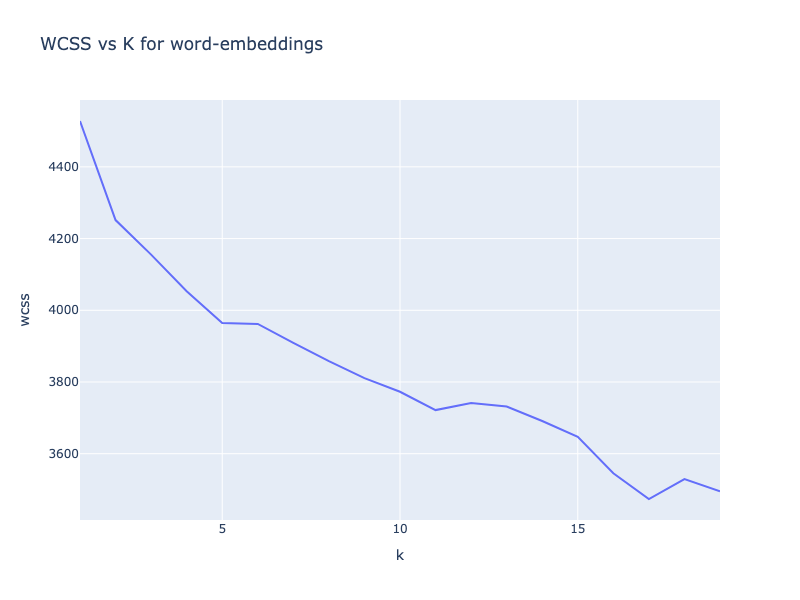
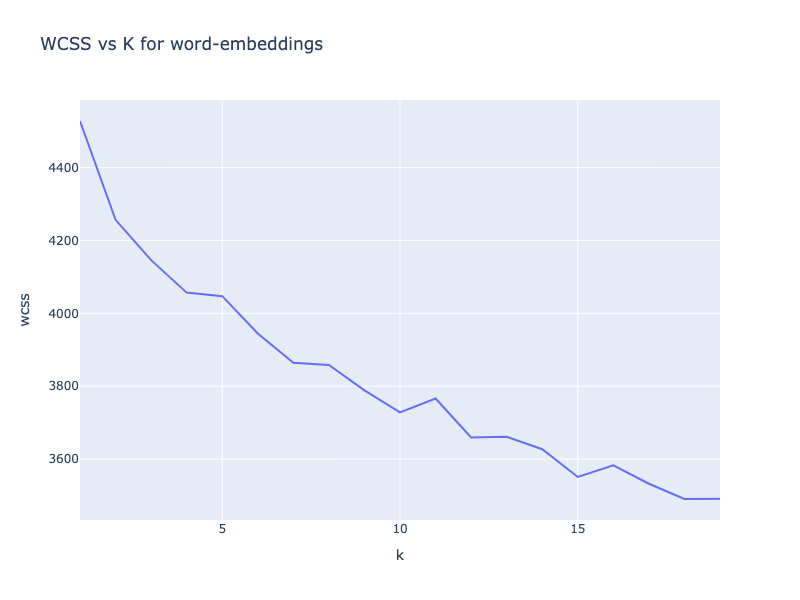
[+]clustering analysis

diff --git a/assignments/2/k_means_tasks.py b/assignments/2/k_means_tasks.py
@@ -5,55 +5,98 @@ from utils import setup_base_dir
 import plotly.express as px
 import json
 import time
+from sklearn.metrics import silhouette_score
 
 base_dir = setup_base_dir(levels=2)
 
 from models.k_means.k_means import KMeans
 
+
 def analyse_2d_clustering_data():
-    data = pd.read_csv(os.path.join(base_dir, "data", "external", "2d-clustering-data.csv"))
+    data = pd.read_csv(
+        os.path.join(base_dir, "data", "external", "2d-clustering-data.csv")
+    )
     X = data[["x", "y"]].to_numpy()
     # view original data with color
-    fig = px.scatter(data, x="x", y="y", title="2D Clustering Data - Original", width=800, height=600, color="color")
+    fig = px.scatter(
+        data,
+        x="x",
+        y="y",
+        title="2D Clustering Data - Original",
+        width=800,
+        height=600,
+        color="color",
+    )
     fig.show()
     # run k_means
     kmeans = KMeans(k=3)
     kmeans.fit(X)
     data["cluster"] = kmeans.predict(X)
     # view clustered data
-    fig = px.scatter(data, x="x", y="y", title="2D Clustering Data - Clustered", width=800, height=600, color="cluster")
+    fig = px.scatter(
+        data,
+        x="x",
+        y="y",
+        title="2D Clustering Data - Clustered",
+        width=800,
+        height=600,
+        color="cluster",
+    )
     fig.show()
-    
+
+
 def wcss_vs_k(reduced=False):
-    data = pd.read_csv(os.path.join(base_dir, "data", "processed", "word-embeddings.csv"), index_col=0)
+    data = pd.read_csv(
+        os.path.join(base_dir, "data", "processed", "word-embeddings.csv"), index_col=0
+    )
     if reduced:
-        data = pd.read_csv(os.path.join(base_dir, "data", "processed", "word-embeddings-reduced.csv"), index_col=0)
-    data = data.drop(columns=['words'])
+        data = pd.read_csv(
+            os.path.join(base_dir, "data", "processed", "word-embeddings-reduced.csv"),
+            index_col=0,
+        )
+    data = data.drop(columns=["words"])
     data = data.to_numpy()
-    
+
     results = []
     for k in range(1, 20):
         kmeans = KMeans(k=k)
         kmeans.fit(data)
         results.append({"k": k, "wcss": kmeans.wcss})
-    
+
     # plot the results
     df = pd.DataFrame(results)
-    fig = px.line(df, x="k", y="wcss", title=f"WCSS vs K for word-embeddings{' reduced' if reduced else ''}", width=800, height=600)
+    fig = px.line(
+        df,
+        x="k",
+        y="wcss",
+        title=f"WCSS vs K for word-embeddings{' reduced' if reduced else ''}",
+        width=800,
+        height=600,
+    )
     fig.show()
-    
+
     with open(f"wcss_vs_k{'_reduced' if reduced else ''}.json", "w") as f:
         json.dump(results, f)
 
+
 def sample_clustering(k, reduced=False):
-    data = pd.read_csv(os.path.join(base_dir, "data", "processed", "word-embeddings.csv"), index_col=0)
+    data = pd.read_csv(
+        os.path.join(base_dir, "data", "processed", "word-embeddings.csv"), index_col=0
+    )
     if reduced:
-        data = pd.read_csv(os.path.join(base_dir, "data", "processed", "word-embeddings-reduced.csv"), index_col=0)
-    words = data['words']
-    data = data.drop(columns=['words'])
+        data = pd.read_csv(
+            os.path.join(base_dir, "data", "processed", "word-embeddings-reduced.csv"),
+            index_col=0,
+        )
+    words = data["words"]
+    data = data.drop(columns=["words"])
     data = data.to_numpy()
-    
-    print("KMeans clustering with k =", k, f"on word-embeddings{'-reduced' if reduced else ''} data")
+
+    print(
+        "KMeans clustering with k =",
+        k,
+        f"on word-embeddings{'-reduced' if reduced else ''} data",
+    )
     kmeans = KMeans(k=k)
     kmeans.fit(data)
     cluster_preds = kmeans.predict(data)
@@ -61,31 +104,90 @@ def sample_clustering(k, reduced=False):
     print("\tPoints in each cluster:")
     for i in range(k):
         print("\t\tCluster", i, ":", np.sum(cluster_preds == i))
-    
+
     return words, cluster_preds
 
-# def sematic_cluster_analysis(words, cluster_preds):
-#     k = np.unique(cluster_preds)
+
+def cluster_analysis(k, reduced=False):
+    data = pd.read_csv(
+        os.path.join(base_dir, "data", "processed", "word-embeddings.csv"), index_col=0
+    )
+    if reduced:
+        data = pd.read_csv(
+            os.path.join(base_dir, "data", "processed", "word-embeddings-reduced.csv"),
+            index_col=0,
+        )
+    words = data["words"]
+    data = data.drop(columns=["words"])
+    data = data.to_numpy()
+    
+    kmeans = KMeans(k=k)
+    kmeans.fit(data)
+    cluster_preds = kmeans.predict(data)
+    
+    # print words in each cluster
+    clusters = {i: [] for i in range(k)}
+    for i in range(len(words)):
+        clusters[cluster_preds[i]].append(words[i])
+    for _k in range(k):
+        print(f"Words in cluster {_k}:")
+        print("\t", ", ".join(clusters[_k]))
+        
+    # intra-cluster distance
+    intra_cluster_distances = []
+    for i in range(k):
+        cluster_data = data[cluster_preds == i]
+        cluster_centroid = np.mean(cluster_data, axis=0)
+        intra_cluster_distances.append(np.sum((cluster_data - cluster_centroid) ** 2))
+    avg_intra_cluster_distance = np.mean(np.array(intra_cluster_distances))
+    print("Average Intra-cluster distances:", avg_intra_cluster_distance)
+    
+    # inter-cluster distance
+    inter_cluster_distances = []
+    for i in range(k):
+        for j in range(i + 1, k):
+            inter_cluster_distances.append(np.sum((kmeans.centroids[i] - kmeans.centroids[j]) ** 2))
+    avg_inter_cluster_distance = np.mean(np.array(inter_cluster_distances))
+    print("Average Inter-cluster distances:", avg_inter_cluster_distance)
+    
+    # silhouette score
+    avg_silhouette_score = silhouette_score(data, cluster_preds) if k>1 else np.nan
+    print("Average Silhouette score:", avg_silhouette_score)
+    
+    # save results
+    results = {
+        "clusters": clusters,
+        "avg_intra_cluster_distances": avg_intra_cluster_distance,
+        "avg_inter_cluster_distances": avg_inter_cluster_distance,
+        "avg_silhouette_score": avg_silhouette_score
+    }
+    with open (f"k_means_cluster_analysis_k{k}{'_reduced' if reduced else ''}.json", "w") as f:
+        json.dump(results, f)
 
 def task_3_2():
     wcss_vs_k()
-    k_kmeans1 = 5
+    k_kmeans1 = 4
     sample_clustering(k=k_kmeans1)
+
 
 def task_6_1():
     k_2 = 3
     sample_clustering(k=k_2)
+
 
 def task_6_2_b():
     wcss_vs_k(reduced=True)
     k_kmeans3 = 6
     sample_clustering(k=k_kmeans3, reduced=True)
 
+
 def task_7_1():
-    k_means1 = 5
+    k_means1 = 4
     k_2 = 3
     k_means3 = 6
-    args1 = sample_clustering(k=k_means1)
-    sematic_cluster_analysis(*args1)
-    pass
-# analyse_2d_clustering_data() 
+    cluster_analysis(k_means1)
+    cluster_analysis(k_2)
+    cluster_analysis(k_means3, reduced=True)
+
+
+# analyse_2d_clustering_data()

diff --git a/assignments/2/gmm_tasks.py b/assignments/2/gmm_tasks.py
@@ -6,6 +6,7 @@ import plotly.express as px
 import plotly.graph_objects as go
 import json
 import time
+from sklearn.metrics import silhouette_score
 
 base_dir = setup_base_dir(levels=2)
 
@@ -135,6 +136,70 @@ def sample_clustering(k, model, reduced=False):
     print("\tAIC:", gmm.aic(data))
     print("\tBIC:", gmm.bic(data))
 
+def cluster_analysis(k, model, reduced=False):
+    data = pd.read_csv(
+        os.path.join(base_dir, "data", "processed", "word-embeddings.csv"), index_col=0
+    )
+    if reduced:
+        data = pd.read_csv(
+            os.path.join(base_dir, "data", "processed", "word-embeddings-reduced.csv"),
+            index_col=0,
+        )
+    words = data["words"]
+    data = data.drop(columns=['words'])
+    data = data.to_numpy()
+
+    gmm = model
+    gmm.fit(data)
+    soft_cluster_preds = gmm.getMembership(data)
+    # soft to hard clustering
+    cluster_preds = np.argmax(soft_cluster_preds, axis=1)
+    
+    clusters = {i:[] for i in range(k)}
+    for i in range(len(words)):
+        clusters[cluster_preds[i]].append(words[i])
+    for _k in range(k):
+        print(f"Words in cluster {_k}:")
+        print("\t", ", ".join(clusters[_k]))
+    
+    # words which have significant probability in multiple clusters
+    print("Words with significant probability in multiple clusters:")
+    for i in range(len(words)):
+        sorted_cluster_probs = np.sort(soft_cluster_preds[i])
+        if k>1 and sorted_cluster_probs[1] > (1/k):
+            print("\t", words[i], soft_cluster_preds[i])
+        
+        
+    # intra-cluster distance
+    intra_cluster_distances = []
+    for i in range(k):
+        cluster_data = data[cluster_preds == i]
+        cluster_centroid = np.mean(cluster_data, axis=0)
+        intra_cluster_distances.append(np.sum((cluster_data - cluster_centroid) ** 2))
+    avg_intra_cluster_distance = np.mean(np.array(intra_cluster_distances))
+    print("Average Intra-cluster distances:", avg_intra_cluster_distance)
+    
+    # inter-cluster distance
+    inter_cluster_distances = []
+    for i in range(k):
+        for j in range(i + 1, k):
+            inter_cluster_distances.append(np.sum((np.mean(data[cluster_preds == i], axis=0) - np.mean(data[cluster_preds == j], axis=0)) ** 2))
+    avg_inter_cluster_distance = np.mean(np.array(inter_cluster_distances))
+    print("Average Inter-cluster distances:", avg_inter_cluster_distance)
+    
+    # silhouette score
+    avg_silhouette_score = silhouette_score(data, cluster_preds) if k>1 else np.nan
+    print("Average Silhouette score:", avg_silhouette_score)
+    
+    # save results
+    results = {
+        "clusters": clusters,
+        "avg_intra_cluster_distances": avg_intra_cluster_distance,
+        "avg_inter_cluster_distances": avg_inter_cluster_distance,
+        "avg_ilhouette_score": avg_silhouette_score
+    }
+    with open (f"gmm_cluster_analysis_k{k}{'_reduced' if reduced else ''}.json", "w") as f:
+        json.dump(results, f)
 
 def task_4_2():
     sample_clustering(k=3, model=GMM(k=3))
@@ -149,6 +214,16 @@ def task_6_3():
     sample_clustering(k=k_2, model=GMM(k=k_2))
 
 def task_6_4():
-    # aic_bic_vs_k(reduced=True)
+    aic_bic_vs_k(reduced=True)
     k_gmm3 = 3
     sample_clustering(k=k_gmm3, model=GMM(k=k_gmm3), reduced=True)
+
+def task_7_2():
+    k_gmm1 = 1
+    k_2 = 3
+    k_gmm3 = 3
+    cluster_analysis(k=k_gmm1, model=GMM_sklearn(k=k_gmm1))
+    cluster_analysis(k=k_2, model=GMM_sklearn(k=k_2))
+    cluster_analysis(k=k_gmm3, model=GMM_sklearn(k=k_gmm3), reduced=True)
+    
+# analyse_2d_clustering_data()

diff --git a/assignments/2/a2.py b/assignments/2/a2.py
@@ -1,7 +1,7 @@
 # driver code for all the other python files
 import argparse
 from k_means_tasks import task_3_2, task_6_1, task_6_2_b, task_7_1
-from gmm_tasks import task_4_2, task_6_3, task_6_4
+from gmm_tasks import task_4_2, task_6_3, task_6_4, task_7_2
 from pca_tasks import task_5_2, task_5_3, task_6_2_a
 
 def main():
@@ -9,7 +9,7 @@ def main():
     parser.add_argument(
         "--task",
         type=str,
-        choices=["3.2", "4.2", "5.2", "5.3", "6.1", "6.2", "6.3", "6.4", "7.1"],
+        choices=["3.2", "4.2", "5.2", "5.3", "6.1", "6.2", "6.3", "6.4", "7.1", "7.2"],
         required=True,
         help="Enter the task to run.",
     )
@@ -53,6 +53,10 @@ def main():
             print("Running task 7.1...")
             task_7_1()
             print("Task 7.1 completed.")
+        case "7.2":
+            print("Running task 7.2...")
+            task_7_2()
+            print("Task 7.2 completed.")
         case _:
             print(
                 "Invalid task specified."
